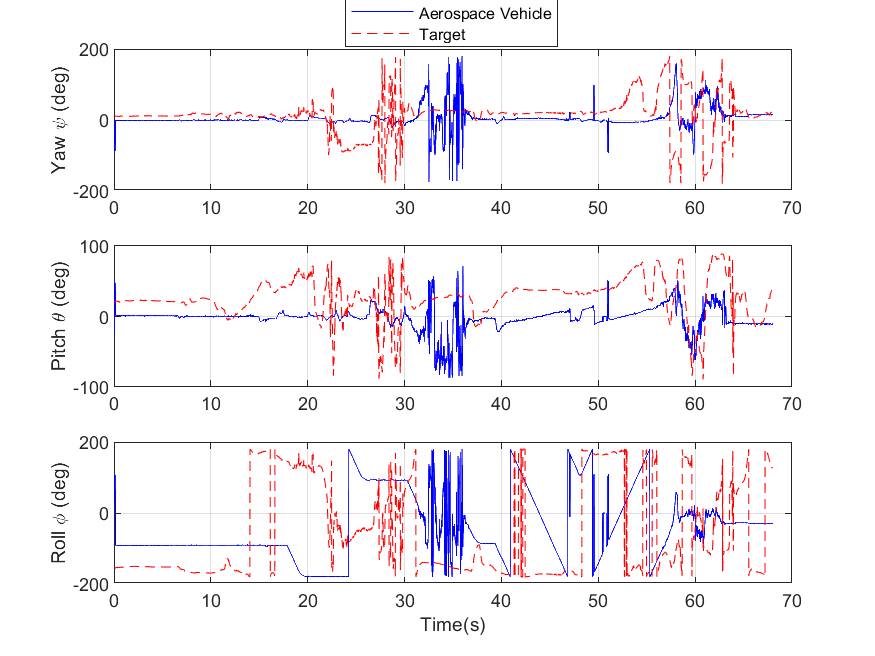
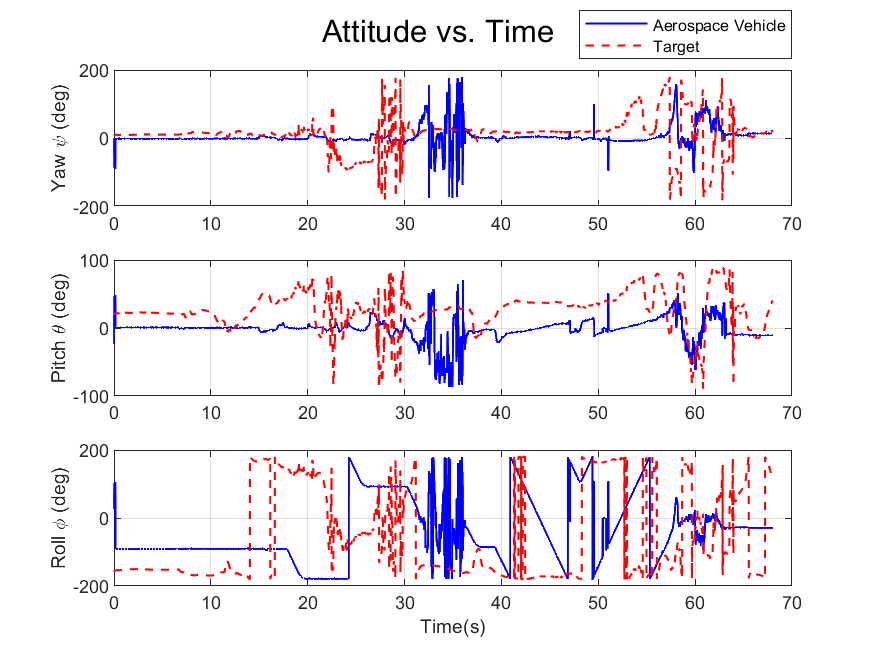
Add files via upload

diff --git a/lab2.m b/lab2.m
@@ -51,15 +51,18 @@ xlabel('X position (m)')
 ylabel('Y position (m)')
 zlabel('Z position (m)')
 
-% Question 4 (Frame E) Attitude vs. Time
+% Question 4 (Frame E) Position and Attitude vs. Time
+
+% Position vs. Time
 figure();
+sgtitle("Position vs. Time")
 subplot(3, 1, 1);
 plot(t_vec, av_pos_inert(1,:),'-b',LineWidth=1.5);
 hold on;
 plot(t_vec, tar_pos_inert(1,:),'--r',LineWidth=1.5);
 ylabel('X position (m)')
 lgd1 = legend('Aerospace Vehicle', 'Target');
-set(lgd1,'Position',[0.430607966457023 0.938175646974225 0.171069182389937 0.0553235908141962]);
+set(lgd1,'Position',[0.661309520165125 0.911346132699368 0.24392857507297 0.0716666681198846]);
 grid on;
 
 subplot(3, 1, 2);
@@ -76,28 +79,31 @@ plot(t_vec, tar_pos_inert(3,:),'--r',LineWidth=1.5);
 ylabel('Z position (m)')
 xlabel('Time(s)')
 grid on;
+saveas(gcf,"Position vs Time","png")
 
+% Attitude vs. Time
 figure();
+sgtitle("Attitude vs. Time")
 subplot(3, 1, 1);
-plot(t_vec, rad2deg(av_att(1,:)),'-b');
+plot(t_vec, rad2deg(av_att(1,:)),'-b',LineWidth=1);
 hold on;
-plot(t_vec, rad2deg(tar_att(1,:)),'--r');
+plot(t_vec, rad2deg(tar_att(1,:)),'--r',LineWidth=1);
 ylabel('Yaw \psi (deg)')
 lgd2 = legend('Aerospace Vehicle', 'Target');
-set(lgd2,'Position',[0.430607966457023 0.938175646974225 0.171069182389937 0.0553235908141962]);
+set(lgd2,'Position',[0.661309520165125 0.911346132699368 0.24392857507297 0.0716666681198846]);
 grid on;
 
 subplot(3, 1, 2);
-plot(t_vec, rad2deg(av_att(2,:)),'-b');
+plot(t_vec, rad2deg(av_att(2,:)),'-b',LineWidth=1);
 hold on;
-plot(t_vec, rad2deg(tar_att(2,:)),'--r');
+plot(t_vec, rad2deg(tar_att(2,:)),'--r',LineWidth=1);
 ylabel('Pitch \theta (deg)')
 grid on;
 
 subplot(3, 1, 3);
-plot(t_vec, rad2deg(av_att(3,:)),'-b');
+plot(t_vec, rad2deg(av_att(3,:)),'-b',LineWidth=1);
 hold on;
-plot(t_vec, rad2deg(tar_att(3,:)),'--r');
+plot(t_vec, rad2deg(tar_att(3,:)),'--r',LineWidth=1);
 ylabel('Roll \phi (deg)')
 xlabel('Time(s)')
 grid on;
